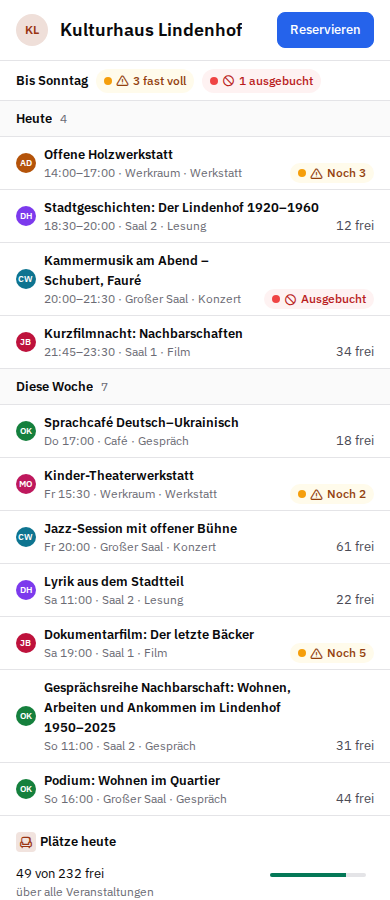
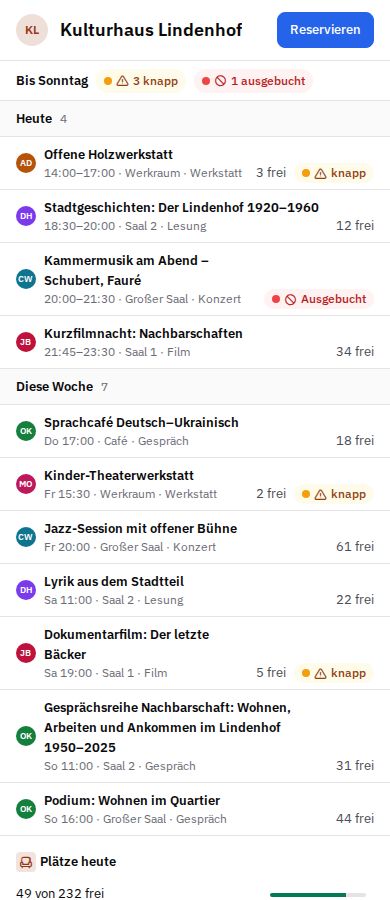
feat(ui): the public page's phone reads seats as its desktop does, one word for scarce seats, and the wall screen keeps both what runs and how full it is

diff --git a/packages/ui/skills/k2b-ui/recipes/public-page.tsx b/packages/ui/skills/k2b-ui/recipes/public-page.tsx
@@ -136,21 +136,6 @@ const keepRanges = (text: string) => text.replace(/(\d)–(\d)/g, "$1–\u2060$2
 
 const few = (seats: Seats) => seats.free > 0 && seats.free <= Math.max(3, seats.of / 10);
 
-/**
- * The seats: a chip in colour, sign and word only for what asks to act (booked out, almost full); the usual case is
- * quiet text, so the two exceptions stand out.
- */
-const seatsChip = (seats: Seats) =>
-  seats.free === 0 ? (
-    <Chip status="bad" icon="ban">
-      Ausgebucht
-    </Chip>
-  ) : few(seats) ? (
-    <Chip status="warn" icon="alert-triangle">{`Noch ${seats.free}`}</Chip>
-  ) : (
-    <Text muted>{`${seats.free} frei`}</Text>
-  );
-
 /** Beside the meter and its words, the chip names only the state: the free seats stand at the meter already. */
 const exceptionChip = (seats: Seats) =>
   seats.free === 0 ? (
@@ -162,6 +147,10 @@ const exceptionChip = (seats: Seats) =>
       knapp
     </Chip>
   );
+
+/** When and where, and on the wall screen what runs now, in its second line. */
+const when = (event: Listed, kiosk: boolean) =>
+  `${kiosk && event.key === "Heute-0" ? `läuft bis ${event.time.split("–")[1]}` : event.time} · ${event.room} · ${kinds[event.kind].label}`;
 
 type Listed = Event & { day: "Heute" | "Diese Woche"; key: string };
 const listed = (events: Event[], day: Listed["day"]): Listed[] => events.map((event, index) => ({ ...event, day, key: `${day}-${index}` }));
@@ -189,7 +178,7 @@ const programme = (events: Listed[], kiosk = false) => (
         title: "Veranstaltung",
         // a long title takes a second line before it is cut: a year range never breaks off in the middle
         wrap: true,
-        cell: (event) => ({ lines: [keepRanges(event.title), `${event.time} · ${event.room} · ${kinds[event.kind].label}`] }),
+        cell: (event) => ({ lines: [keepRanges(event.title), when(event, kiosk)] }),
       },
       {
         title: "Leitung",
@@ -214,18 +203,23 @@ const programme = (events: Listed[], kiosk = false) => (
               label={event.seats.free === 0 ? undefined : `${event.seats.free} frei`}
               status={load(event.seats)}
             />
-            {/* on the wall screen what runs now says so on its row; its seats matter less while it runs */}
-            <Show when={kiosk && event.key === "Heute-0"} fallback={<Show when={load(event.seats)}>{exceptionChip(event.seats)}</Show>}>
-              <Chip status="ok">läuft</Chip>
-            </Show>
+            <Show when={load(event.seats)}>{exceptionChip(event.seats)}</Show>
           </Inline>
         ),
       },
     ]}
     phone={(event) => ({
-      lines: [keepRanges(event.title), `${event.time} · ${event.room} · ${kinds[event.kind].label}`],
+      lines: [keepRanges(event.title), when(event, kiosk)],
       avatar: event.host,
-      marks: seatsChip(event.seats),
+      // the seats read as on the desktop: free seats in words, a chip only for the state
+      marks: (
+        <>
+          <Show when={event.seats.free > 0}>
+            <Text muted>{`${event.seats.free} frei`}</Text>
+          </Show>
+          <Show when={load(event.seats)}>{exceptionChip(event.seats)}</Show>
+        </>
+      ),
     })}
   />
 );
@@ -267,7 +261,7 @@ export default function VenueProgramme(props: Props) {
                   {/* the statement names its reference, and its chips count the rows the list shows */}
                   <Text weight="strong">Bis Sonntag</Text>
                   <Show when={almost() > 0}>
-                    <Chip status="warn" icon="alert-triangle">{`${almost()} fast voll`}</Chip>
+                    <Chip status="warn" icon="alert-triangle">{`${almost()} knapp`}</Chip>
                   </Show>
                   <Show when={full() > 0}>
                     <Chip status="bad" icon="ban">{`${full()} ausgebucht`}</Chip>
